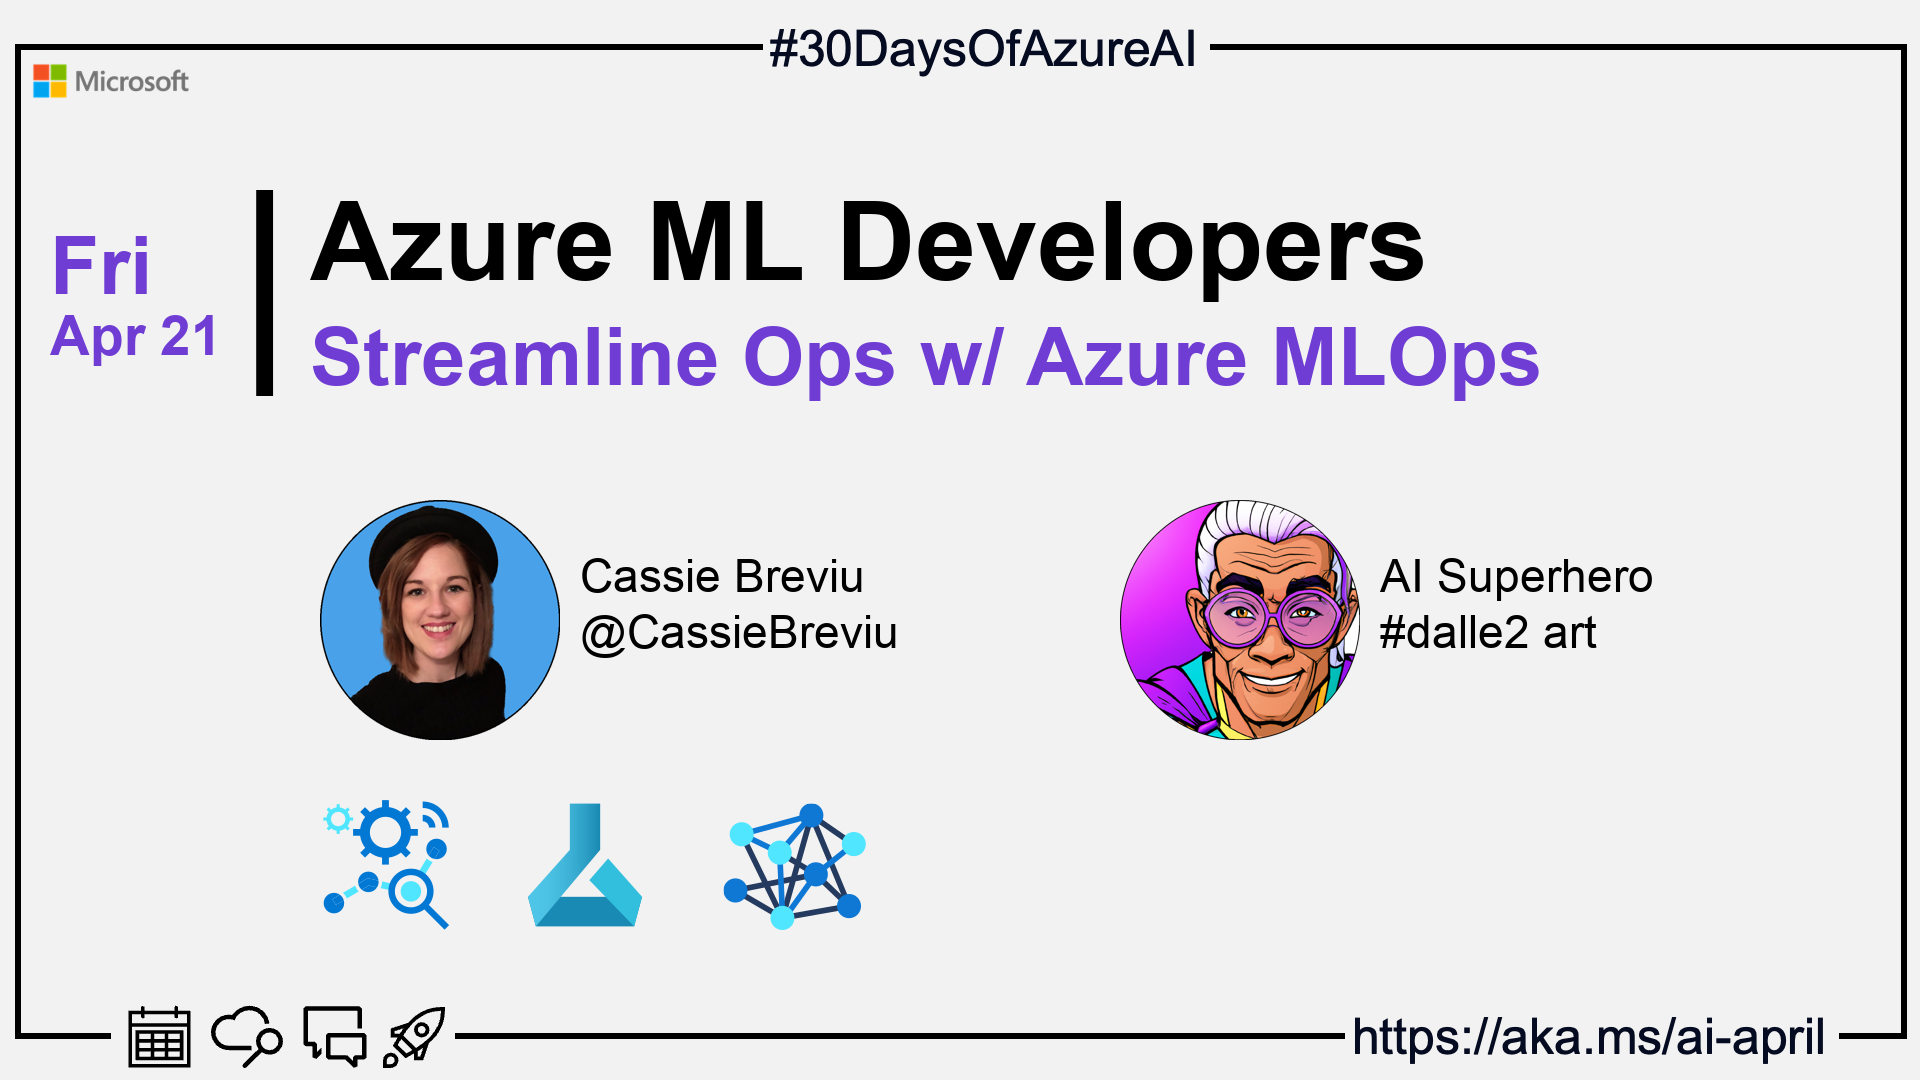
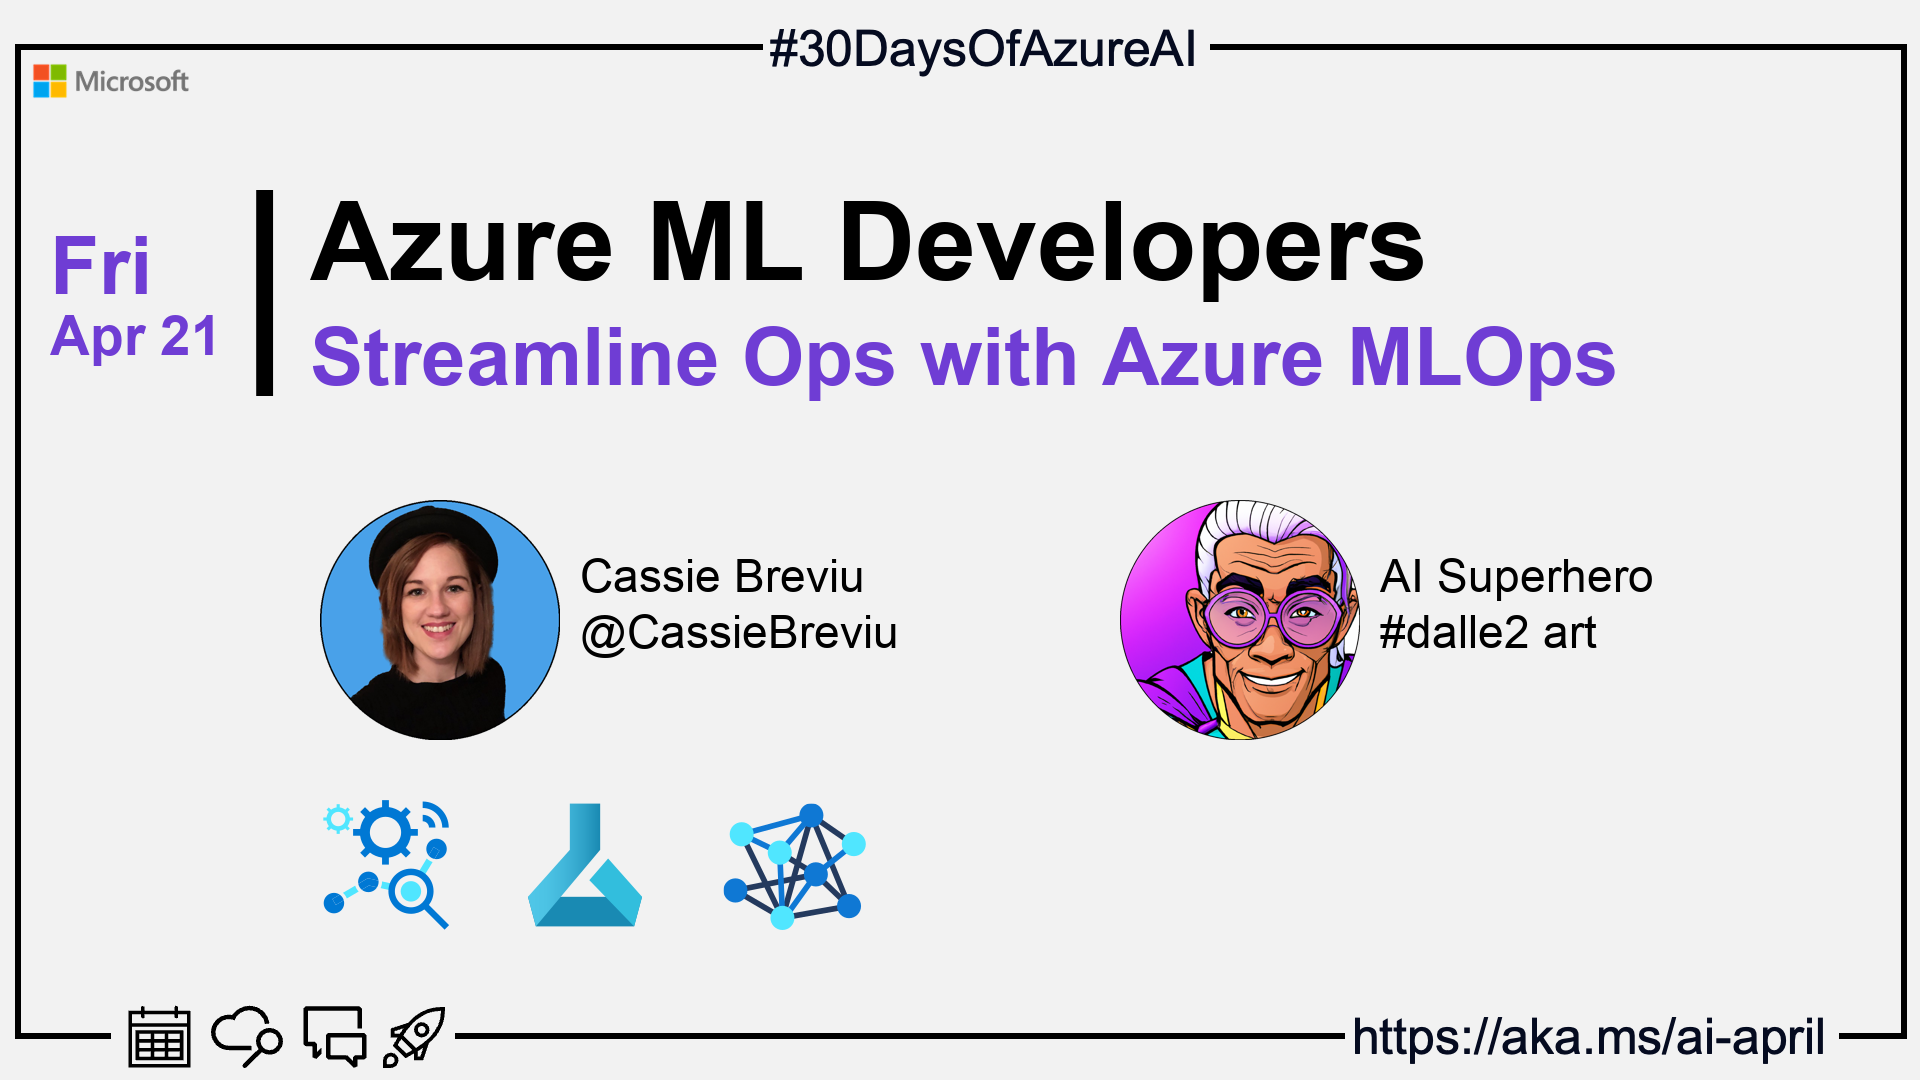
docs - meta

Changed region(s): [[0.5, 0.3056, 0.8438, 0.3667]]

diff --git a/website/2023-aia/2023-04-20-rai-part-1/index.md b/website/2023-aia/2023-04-20-rai-part-1/index.md
@@ -1,6 +1,6 @@
 ---
 slug: "day19"
-title: "19. 🧑🏽🔬Debug models w/ Responsible AI"
+title: "19. 🧑🏽🔬Debug models with Responsible AI"
 authors: ['Ruth']
 draft: true
 hide_table_of_contents: false
@@ -17,16 +17,8 @@ import Social from '@site/src/components/social';
 
 <head>
 
-  <meta property="og:url" content="https://azureaidevs.github.io/hub/2023-aia/day19" />
-  <meta property="og:title" content="Debug models w/ Responsible AI" />
-  <meta property="og:description" content="🧑🏽🔬Welcome to day 19 of #30DaysOfAzureAI. Guide to analyzing ML models for Responsible AI issues (Part 1)" />
-  <meta property="og:image" content="https://raw.githubusercontent.com/AzureAiDevs/hub/main/website/static/img/2023-aia/banner-day19.png" />
-  <meta property="og:type" content="article" />
-  <meta property="og:site_name" content="Azure AI Developer" />
-
   <link rel="canonical" href="https://techcommunity.microsoft.com/t5/ai-machine-learning-blog/getting-started-with-azure-machine-learning-responsible-ai/ba-p/3746948?WT.mc_id=aiml-89446-dglover"  />
-
-</head>
+  </head>
 
 - 👓 [View today's article](https://techcommunity.microsoft.com/t5/ai-machine-learning-blog/getting-started-with-azure-machine-learning-responsible-ai/ba-p/3746948?WT.mc_id=aiml-89446-dglover)
 - 🍿 [Tune into the AI Show](https://aka.ms/ai-april-ai-show)
@@ -40,7 +32,7 @@ import Social from '@site/src/components/social';
 <Social
     page_url="https://azureaidevs.github.io/hub/2023-aia/day19"
     image_url="https://raw.githubusercontent.com/AzureAiDevs/hub/main/website/static/img/2023-aia/banner-day19.png"
-    title="Debug models w/ Responsible AI"
+    title="Debug models with Responsible AI"
     description= "🧑🏽🔬Day 19 of #30DaysOfAzureAI. Unlock the power of Responsible AI with the RAI Dashboard, a suite of open-source tools for model debugging, fairness assessment, and more, now available on Azure Machine Learning."
     hashtags="AI,AIforAll"
     hashtag="#30DaysOfAzureAi"

diff --git a/website/2023-aia/2023-04-21-mlops-intro/index.md b/website/2023-aia/2023-04-21-mlops-intro/index.md
@@ -1,6 +1,6 @@
 ---
 slug: "day20"
-title: "20. 🧑🏽🔬Streamline Ops w/ Azure MLOps"
+title: "20. 🧑🏽🔬Streamline Ops with Azure MLOps"
 authors: ['Cassie']
 draft: true
 hide_table_of_contents: false
@@ -17,16 +17,8 @@ import Social from '@site/src/components/social';
 
 <head>
 
-  <meta property="og:url" content="https://azureaidevs.github.io/hub/2023-aia/day20" />
-  <meta property="og:title" content="Streamline Ops w/ Azure MLOps" />
-  <meta property="og:description" content="🧑🏽🔬Welcome to day 20 of #30DaysOfAzureAI. Learn about Azure Machine Learning lifecycle and open source tooling to start building MLOps" />
-  <meta property="og:image" content="https://raw.githubusercontent.com/AzureAiDevs/hub/main/website/static/img/2023-aia/banner-day20.png" />
-  <meta property="og:type" content="article" />
-  <meta property="og:site_name" content="Azure AI Developer" />
-
   <link rel="canonical" href="https://learn.microsoft.com/events/ignite-2022/cll99-learn-live-start-machine-learning-lifecycle-with-mlops?WT.mc_id=aiml-89446-dglover"  />
-
-</head>
+  </head>
 
 - 👓 [View today's article](https://learn.microsoft.com/events/ignite-2022/cll99-learn-live-start-machine-learning-lifecycle-with-mlops?WT.mc_id=aiml-89446-dglover)
 - 🍿 [Tune into the AI Show](https://aka.ms/ai-april-ai-show)
@@ -40,7 +32,7 @@ import Social from '@site/src/components/social';
 <Social
     page_url="https://azureaidevs.github.io/hub/2023-aia/day20"
     image_url="https://raw.githubusercontent.com/AzureAiDevs/hub/main/website/static/img/2023-aia/banner-day20.png"
-    title="Streamline Ops w/ Azure MLOps"
+    title="Streamline Ops with Azure MLOps"
     description= "🧑🏽🔬Day 20 of #30DaysOfAzureAI. Unleash your #MachineLearning potential! Join Cassie and Korey in today's #LearnLive and discover #Azure MLOps. Streamline your ML lifecycle with open source tooling, and take your models to the next level!"
     hashtags="AI,AzureMLOps"
     hashtag="#30DaysOfAzureAi"

diff --git a/website/2023-aia/2023-04-10-azure-cog-openai-sdks/index.md b/website/2023-aia/2023-04-10-azure-cog-openai-sdks/index.md
@@ -1,6 +1,6 @@
 ---
 slug: "day9"
-title: "9. 🧑💻Build intelligent apps w/ Azure AI SDKs"
+title: "9. 🧑💻Build intelligent apps with Azure AI SDKs"
 authors: ['Arun']
 draft: false
 hide_table_of_contents: false
@@ -17,16 +17,8 @@ import Social from '@site/src/components/social';
 
 <head>
 
-  <meta property="og:url" content="https://azureaidevs.github.io/hub/2023-aia/day9" />
-  <meta property="og:title" content="Build intelligent apps w/ Azure AI SDKs" />
-  <meta property="og:description" content="🧑💻Welcome to day 9 of #30DaysOfAzureAI. Building intelligent apps? Then explore the Azure AI Hub for OpenAI and Cognitive Services SDK samples" />
-  <meta property="og:image" content="https://raw.githubusercontent.com/AzureAiDevs/hub/main/website/static/img/2023-aia/banner-day9.png" />
-  <meta property="og:type" content="article" />
-  <meta property="og:site_name" content="Azure AI Developer" />
-
   <link rel="canonical" href="https://github.com/Azure-Samples/azure-ai"  />
-
-</head>
+  </head>
 
 - 👓 [View today's article](https://github.com/Azure-Samples/azure-ai)
 - 🍿 [Tune into the AI Show](https://aka.ms/ai-april-ai-show)
@@ -40,9 +32,9 @@ import Social from '@site/src/components/social';
 <Social
     page_url="https://azureaidevs.github.io/hub/2023-aia/day9"
     image_url="https://raw.githubusercontent.com/AzureAiDevs/hub/main/website/static/img/2023-aia/banner-day9.png"
-    title="Build intelligent apps w/ Azure AI SDKs"
+    title="Build intelligent apps with Azure AI SDKs"
     description= "🧑💻Day 9 of #30DaysOfAzureAI. AI App developers don't miss out on exploring the Azure AI Hub for OpenAI and Cognitive Services SDK samples. Build intelligent apps with Azure AI Services."
-    hashtags="AI,AzureOpenAI,AzureSDK"
+    hashtags="AI,AzureSDK"
     hashtag="#30DaysOfAzureAi"
 />
 

diff --git a/website/2023-aia/2023-04-08-ai-accessibility/index.md b/website/2023-aia/2023-04-08-ai-accessibility/index.md
@@ -1,6 +1,6 @@
 ---
 slug: "day7"
-title: "7. 🏁Improve accessibility w/ Azure AI"
+title: "7. 🏁Improve accessibility with Azure AI"
 authors: ['Henk']
 draft: true
 hide_table_of_contents: false
@@ -17,16 +17,8 @@ import Social from '@site/src/components/social';
 
 <head>
 
-  <meta property="og:url" content="https://azureaidevs.github.io/hub/2023-aia/day7" />
-  <meta property="og:title" content="Improve accessibility w/ Azure AI" />
-  <meta property="og:description" content="🏁Welcome to day 7 of #30DaysOfAzureAI. Learn about the 6 ways to improve accessibility with Azure AI" />
-  <meta property="og:image" content="https://raw.githubusercontent.com/AzureAiDevs/hub/main/website/static/img/2023-aia/banner-day7.png" />
-  <meta property="og:type" content="article" />
-  <meta property="og:site_name" content="Azure AI Developer" />
-
   <link rel="canonical" href="https://azure.microsoft.com/blog/6-ways-to-improve-accessibility-with-azure-ai?WT.mc_id=aiml-89446-dglover"  />
-
-</head>
+  </head>
 
 - 👓 [View today's article](https://azure.microsoft.com/blog/6-ways-to-improve-accessibility-with-azure-ai?WT.mc_id=aiml-89446-dglover)
 - 🍿 [Tune into the AI Show](https://aka.ms/ai-april-ai-show)
@@ -40,7 +32,7 @@ import Social from '@site/src/components/social';
 <Social
     page_url="https://azureaidevs.github.io/hub/2023-aia/day7"
     image_url="https://raw.githubusercontent.com/AzureAiDevs/hub/main/website/static/img/2023-aia/banner-day7.png"
-    title="Improve accessibility w/ Azure AI"
+    title="Improve accessibility with Azure AI"
     description= "🏁Day 7 of #30DaysOfAzureAI. Join Microsoft's mission to break down barriers! Learn about the 6 ways to improve accessibility with Azure AI and empower the 1 billion ppl living with disabilities."
     hashtags="AI,Accessibility"
     hashtag="#30DaysOfAzureAi"

diff --git a/website/2023-aia/2023-04-17-inside-azureml-train-deploy/index.md b/website/2023-aia/2023-04-17-inside-azureml-train-deploy/index.md
@@ -10,23 +10,15 @@ keywords: ['Machine-Learning', 'Azure-AI']
 tags: ['ai-april', '30-days-of-azure-ai', 'ml-developers', 'azure-ml', 'data-scientist']
 
 image: https://raw.githubusercontent.com/AzureAiDevs/hub/main/website/static/img/2023-aia/banner-day16.png
-description: "🧑🏽🔬Welcome to day 16 of #30DaysOfAzureAI. Azure ML: Train and Deploy ML Models at Scale https://azureaidevs.github.io/hub/2023-aia/day16"
+description: "🧑🏽🔬Welcome to day 16 of #30DaysOfAzureAI. Train and Deploy ML Models at Scale https://azureaidevs.github.io/hub/2023-aia/day16"
 ---
 
 import Social from '@site/src/components/social';
 
 <head>
 
-  <meta property="og:url" content="https://azureaidevs.github.io/hub/2023-aia/day16" />
-  <meta property="og:title" content="Scaling Model Dev with Azure ML" />
-  <meta property="og:description" content="🧑🏽🔬Welcome to day 16 of #30DaysOfAzureAI. Azure ML: Train and Deploy ML Models at Scale" />
-  <meta property="og:image" content="https://raw.githubusercontent.com/AzureAiDevs/hub/main/website/static/img/2023-aia/banner-day16.png" />
-  <meta property="og:type" content="article" />
-  <meta property="og:site_name" content="Azure AI Developer" />
-
   <link rel="canonical" href="https://bea.stollnitz.com/blog/aml-command"  />
-
-</head>
+  </head>
 
 - 👓 [View today's article](https://bea.stollnitz.com/blog/aml-command)
 - 🍿 [Tune into the AI Show](https://aka.ms/ai-april-ai-show)
@@ -53,7 +45,7 @@ The following description is also used for the tweet. So it should be action ori
 If you update the description, please update the description: in the frontmatter as well.
 -->
 
-**Azure ML: Train and Deploy ML Models at Scale**
+**Train and Deploy ML Models at Scale**
 
 <!-- README
 The following is the intro to the post. It should be a short teaser for the post.

diff --git a/website/2023-aia/2023-04-13-inside-onnx-excel/index.md b/website/2023-aia/2023-04-13-inside-onnx-excel/index.md
@@ -1,6 +1,6 @@
 ---
 slug: "day12"
-title: "12. 🧑💻NLP Models in Excel w/ ONNX Runtime"
+title: "12. 🧑💻NLP Models in Excel with ONNX Runtime"
 authors: ['Cassie']
 draft: true
 hide_table_of_contents: false
@@ -17,16 +17,8 @@ import Social from '@site/src/components/social';
 
 <head>
 
-  <meta property="og:url" content="https://azureaidevs.github.io/hub/2023-aia/day12" />
-  <meta property="og:title" content="NLP Models in Excel w/ ONNX Runtime" />
-  <meta property="og:description" content="🧑💻Welcome to day 12 of #30DaysOfAzureAI. Build an Excel Add-in with ONNX Runtime Web for NLP Tasks" />
-  <meta property="og:image" content="https://raw.githubusercontent.com/AzureAiDevs/hub/main/website/static/img/2023-aia/banner-day12.png" />
-  <meta property="og:type" content="article" />
-  <meta property="og:site_name" content="Azure AI Developer" />
-
   <link rel="canonical" href="https://onnxruntime.ai/docs/tutorials/web/excel-addin-bert-js.html"  />
-
-</head>
+  </head>
 
 - 👓 [View today's article](https://onnxruntime.ai/docs/tutorials/web/excel-addin-bert-js.html)
 - 🍿 [Tune into the AI Show](https://aka.ms/ai-april-ai-show)
@@ -40,7 +32,7 @@ import Social from '@site/src/components/social';
 <Social
     page_url="https://azureaidevs.github.io/hub/2023-aia/day12"
     image_url="https://raw.githubusercontent.com/AzureAiDevs/hub/main/website/static/img/2023-aia/banner-day12.png"
-    title="NLP Models in Excel w/ ONNX Runtime"
+    title="NLP Models in Excel with ONNX Runtime"
     description= "🧑💻Day 12 of #30DaysOfAzureAI. Excel + NLP + ONNX = 🔥! Get ready to build a powerful Excel add-in with BERT NLP using the ONNX Runtime."
     hashtags="AI,ONNXRuntime"
     hashtag="#30DaysOfAzureAi"

diff --git a/website/2023-aia/2023-04-05-copilot-form-recognizer/index.md b/website/2023-aia/2023-04-05-copilot-form-recognizer/index.md
@@ -17,16 +17,8 @@ import Social from '@site/src/components/social';
 
 <head>
 
-  <meta property="og:url" content="https://azureaidevs.github.io/hub/2023-aia/day4" />
-  <meta property="og:title" content="Build a receipts app with Copilot" />
-  <meta property="og:description" content="🏁Welcome to day 4 of #30DaysOfAzureAI. Learn how to use Copilot to build an intelligent receipts app powered by Azure Form Recognizer" />
-  <meta property="og:image" content="https://raw.githubusercontent.com/AzureAiDevs/hub/main/website/static/img/2023-aia/banner-day4.png" />
-  <meta property="og:type" content="article" />
-  <meta property="og:site_name" content="Azure AI Developer" />
-
   <link rel="canonical" href="https://techcommunity.microsoft.com/t5/ai-cognitive-services-blog/how-copilot-helps-developers-generate-code-for-a-form-recognizer/ba-p/3753813?WT.mc_id=aiml-89446-dglover"  />
-
-</head>
+  </head>
 
 - 👓 [View today's article](https://techcommunity.microsoft.com/t5/ai-cognitive-services-blog/how-copilot-helps-developers-generate-code-for-a-form-recognizer/ba-p/3753813?WT.mc_id=aiml-89446-dglover)
 - 🍿 [Tune into the AI Show](https://aka.ms/ai-april-ai-show)

diff --git a/website/2023-aia/2023-04-11-build-chatgpt/index.md b/website/2023-aia/2023-04-11-build-chatgpt/index.md
@@ -17,16 +17,8 @@ import Social from '@site/src/components/social';
 
 <head>
 
-  <meta property="og:url" content="https://azureaidevs.github.io/hub/2023-aia/day10" />
-  <meta property="og:title" content="How to build your own ChatGPT" />
-  <meta property="og:description" content="🧑💻Welcome to day 10 of #30DaysOfAzureAI. Build your own ChatGPT with Azure Cognitive Search + Azure OpenAI Service" />
-  <meta property="og:image" content="https://raw.githubusercontent.com/AzureAiDevs/hub/main/website/static/img/2023-aia/banner-day10.png" />
-  <meta property="og:type" content="article" />
-  <meta property="og:site_name" content="Azure AI Developer" />
-
   <link rel="canonical" href="https://techcommunity.microsoft.com/t5/ai-applied-ai-blog/revolutionize-your-enterprise-data-with-chatgpt-next-gen-apps-w/ba-p/3762087?WT.mc_id=aiml-89446-dglover"  />
-
-</head>
+  </head>
 
 - 👓 [View today's article](https://techcommunity.microsoft.com/t5/ai-applied-ai-blog/revolutionize-your-enterprise-data-with-chatgpt-next-gen-apps-w/ba-p/3762087?WT.mc_id=aiml-89446-dglover)
 - 🍿 [Tune into the AI Show](https://aka.ms/ai-april-ai-show)

diff --git a/website/2023-aia/2023-04-03-azure-openai-services/index.md b/website/2023-aia/2023-04-03-azure-openai-services/index.md
@@ -17,16 +17,8 @@ import Social from '@site/src/components/social';
 
 <head>
 
-  <meta property="og:url" content="https://azureaidevs.github.io/hub/2023-aia/day2" />
-  <meta property="og:title" content="Unleash the power of Azure OpenAI" />
-  <meta property="og:description" content="🏁Welcome to day 2 of #30DaysOfAzureAI. Unleashing the power of AI with Azure OpenAI: A simple guide to get started" />
-  <meta property="og:image" content="https://raw.githubusercontent.com/AzureAiDevs/hub/main/website/static/img/2023-aia/banner-day2.png" />
-  <meta property="og:type" content="article" />
-  <meta property="og:site_name" content="Azure AI Developer" />
-
   <link rel="canonical" href="https://techcommunity.microsoft.com/t5/fasttrack-for-azure/unleashing-the-power-of-ai-with-azure-openai-a-simple-guide-to/ba-p/3725706?WT.mc_id=aiml-89446-dglover"  />
-
-</head>
+  </head>
 
 - 👓 [View today's article](https://techcommunity.microsoft.com/t5/fasttrack-for-azure/unleashing-the-power-of-ai-with-azure-openai-a-simple-guide-to/ba-p/3725706?WT.mc_id=aiml-89446-dglover)
 - 🍿 [Tune into the AI Show](https://aka.ms/ai-april-ai-show)

diff --git a/website/2023-aia/2023-04-29-azure-personalizer/index.md b/website/2023-aia/2023-04-29-azure-personalizer/index.md
@@ -17,16 +17,8 @@ import Social from '@site/src/components/social';
 
 <head>
 
-  <meta property="og:url" content="https://azureaidevs.github.io/hub/2023-aia/day27" />
-  <meta property="og:title" content="Enhance CX with Azure Personalizer" />
-  <meta property="og:description" content="🏭Welcome to day 27 of #30DaysOfAzureAI. Maximizing Business Results with Azure Personalizer: A Machine Learning-Based Service for Personalized Customer Experiences" />
-  <meta property="og:image" content="https://raw.githubusercontent.com/AzureAiDevs/hub/main/website/static/img/2023-aia/banner-day27.png" />
-  <meta property="og:type" content="article" />
-  <meta property="og:site_name" content="Azure AI Developer" />
-
   <link rel="canonical" href="https://www.arafattehsin.com/reinforcement-learning-in-apps-bots-websites-with-azure-personalizer-part-1"  />
-
-</head>
+  </head>
 
 - 👓 [View today's article](https://www.arafattehsin.com/reinforcement-learning-in-apps-bots-websites-with-azure-personalizer-part-1)
 - 🍿 [Tune into the AI Show](https://aka.ms/ai-april-ai-show)

diff --git a/website/2023-aia/2023-04-14-copilot/index.md b/website/2023-aia/2023-04-14-copilot/index.md
@@ -17,16 +17,8 @@ import Social from '@site/src/components/social';
 
 <head>
 
-  <meta property="og:url" content="https://azureaidevs.github.io/hub/2023-aia/day13" />
-  <meta property="og:title" content="Copilot's updated AI model" />
-  <meta property="og:description" content="🧑💻Welcome to day 13 of #30DaysOfAzureAI. GitHub Copilot Upgraded: Faster, More Accurate, and More Secure Code" />
-  <meta property="og:image" content="https://raw.githubusercontent.com/AzureAiDevs/hub/main/website/static/img/2023-aia/banner-day13.png" />
-  <meta property="og:type" content="article" />
-  <meta property="og:site_name" content="Azure AI Developer" />
-
   <link rel="canonical" href="https://github.blog/2023-02-14-github-copilot-now-has-a-better-ai-model-and-new-capabilities/"  />
-
-</head>
+  </head>
 
 - 👓 [View today's article](https://github.blog/2023-02-14-github-copilot-now-has-a-better-ai-model-and-new-capabilities/)
 - 🍿 [Tune into the AI Show](https://aka.ms/ai-april-ai-show)

diff --git a/website/2023-aia/2023-04-25-data-science-beginners/index.md b/website/2023-aia/2023-04-25-data-science-beginners/index.md
@@ -17,16 +17,8 @@ import Social from '@site/src/components/social';
 
 <head>
 
-  <meta property="og:url" content="https://azureaidevs.github.io/hub/2023-aia/day23" />
-  <meta property="og:title" content="Data Science for Beginners" />
-  <meta property="og:description" content="🏭Welcome to day 23 of #30DaysOfAzureAI. Foundations of Data Science: Workshops for Beginners" />
-  <meta property="og:image" content="https://raw.githubusercontent.com/AzureAiDevs/hub/main/website/static/img/2023-aia/banner-day23.png" />
-  <meta property="og:type" content="article" />
-  <meta property="og:site_name" content="Azure AI Developer" />
-
   <link rel="canonical" href="https://microsoft.github.io/Data-Science-For-Beginners?WT.mc_id=aiml-89446-dglover"  />
-
-</head>
+  </head>
 
 - 👓 [View today's article](https://microsoft.github.io/Data-Science-For-Beginners?WT.mc_id=aiml-89446-dglover)
 - 🍿 [Tune into the AI Show](https://aka.ms/ai-april-ai-show)
